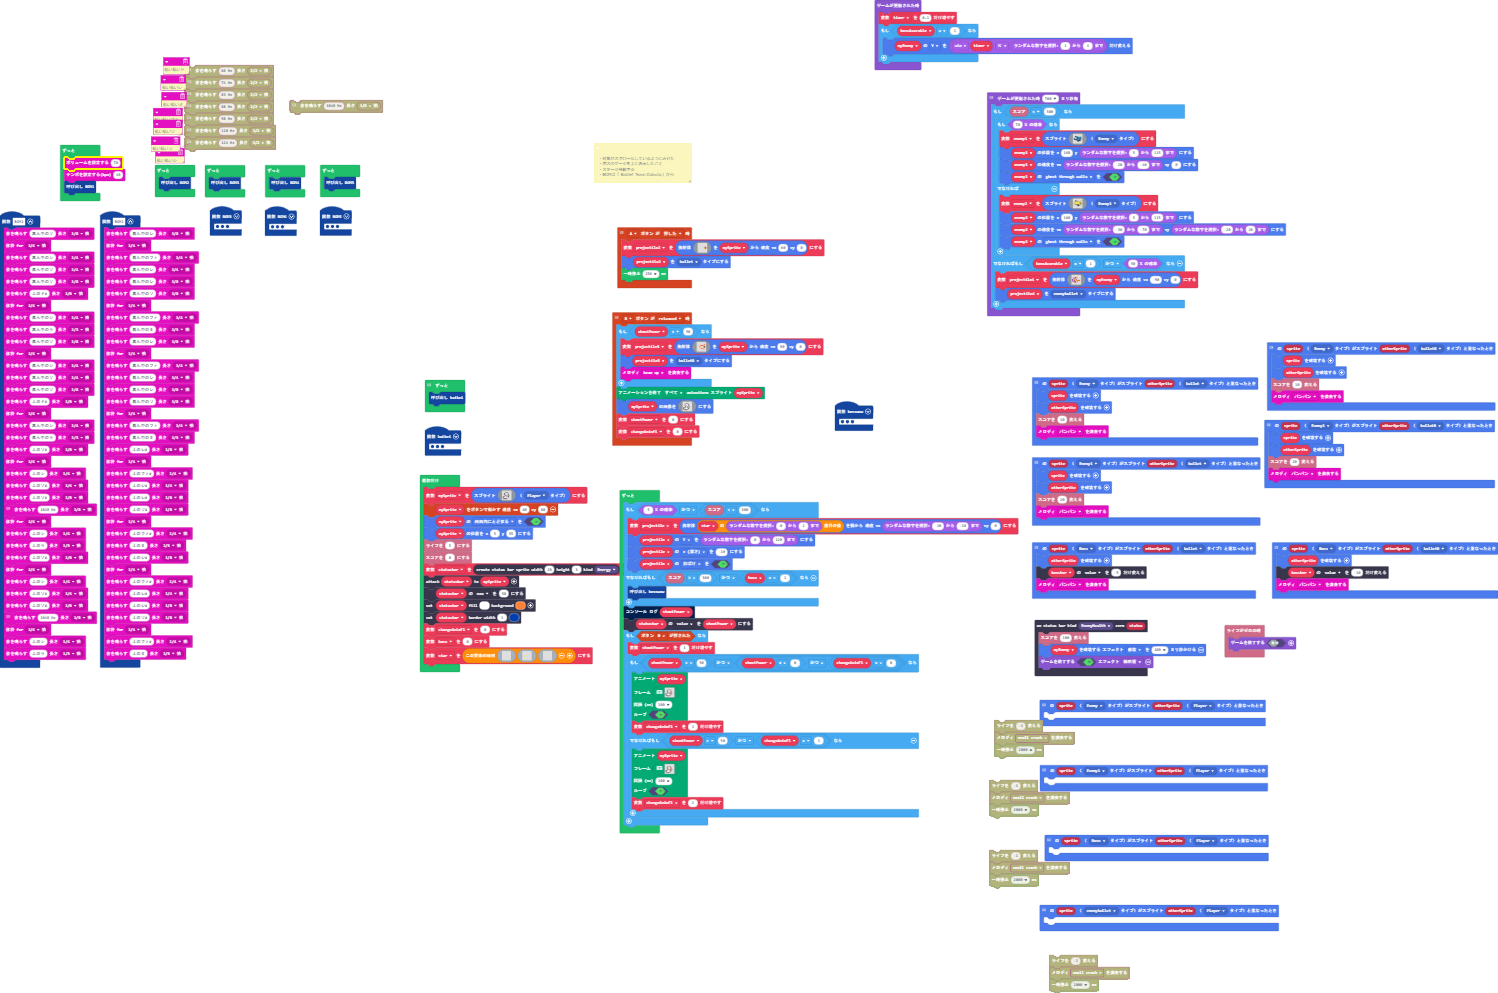
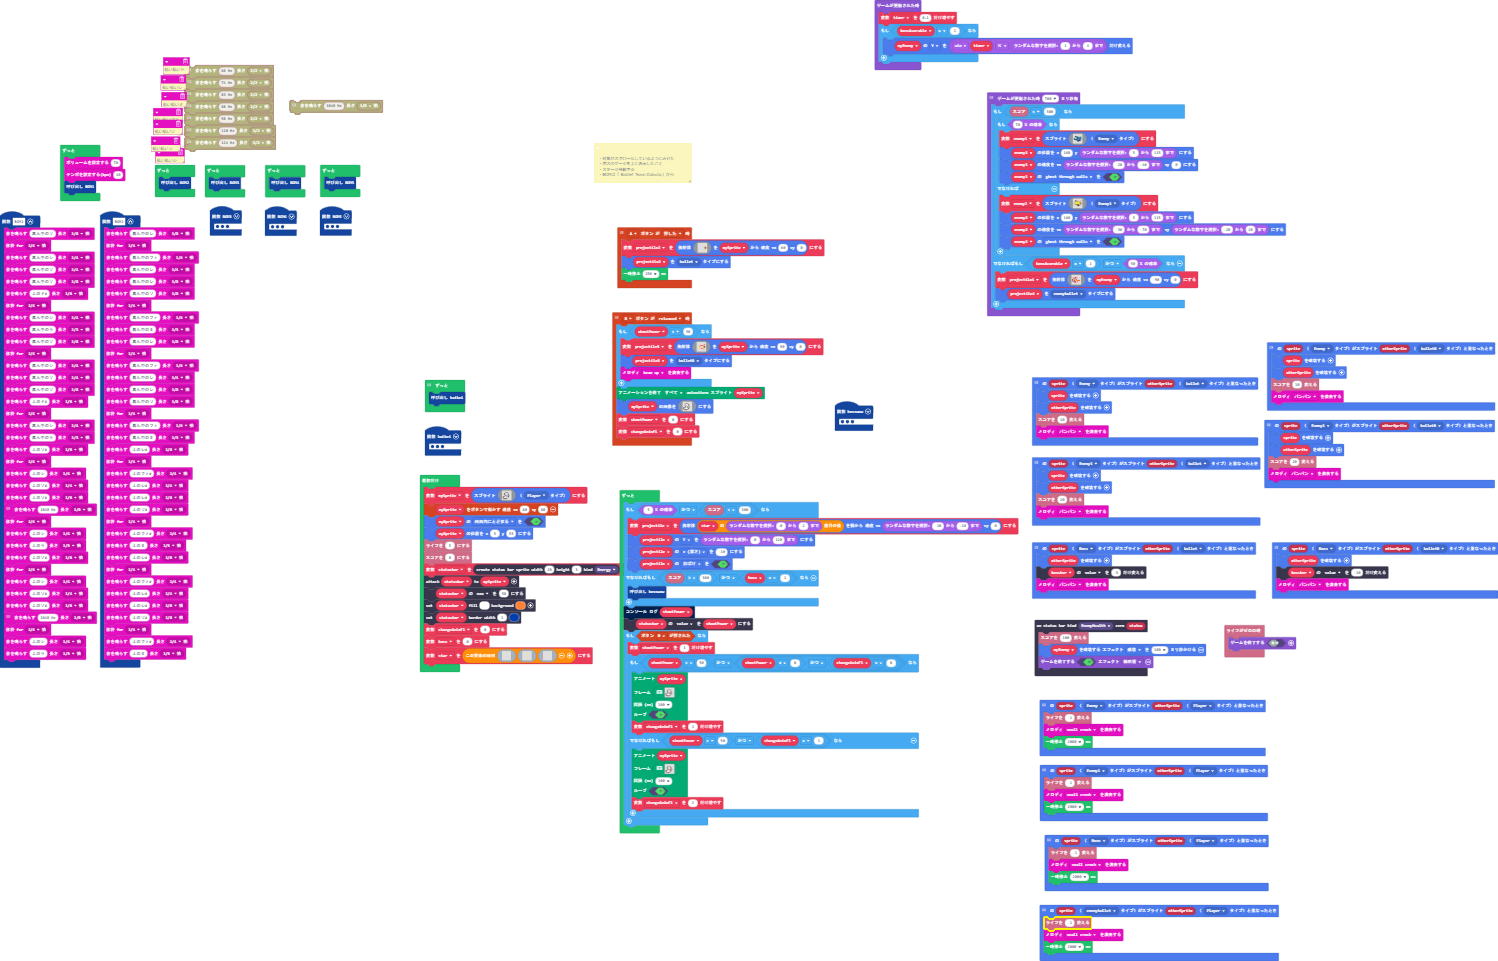
更新 main.blocks, main.ts

diff --git a/main.ts b/main.ts
@@ -17,7 +17,9 @@ namespace SpriteKind {
  */
 // 自身にダメージ！
 sprites.onOverlap(SpriteKind.Boss, SpriteKind.Player, function (sprite, otherSprite) {
-	
+    info.changeLifeBy(-1)
+    music.smallCrash.play()
+    pause(2000)
 })
 function haikei () {
     if (info.score() < 300) {
@@ -1653,7 +1655,9 @@ function BGM5 () {
 }
 // 自身にダメージ！
 sprites.onOverlap(SpriteKind.Enemy1, SpriteKind.Player, function (sprite, otherSprite) {
-	
+    info.changeLifeBy(-1)
+    music.smallCrash.play()
+    pause(2000)
 })
 function BGM3 () {
     music.rest(music.beat(BeatFraction.Quarter))
@@ -1788,7 +1792,9 @@ sprites.onOverlap(SpriteKind.Enemy, SpriteKind.bulletB, function (sprite, otherS
 })
 // ダメージ　
 sprites.onOverlap(SpriteKind.Enemy, SpriteKind.Player, function (sprite, otherSprite) {
-	
+    info.changeLifeBy(-1)
+    music.smallCrash.play()
+    pause(2000)
 })
 // 黄色の敵を撃ったとき20点！！！！
 sprites.onOverlap(SpriteKind.Boss, SpriteKind.bullet, function (sprite, otherSprite) {
@@ -1913,7 +1919,9 @@ sprites.onOverlap(SpriteKind.Enemy1, SpriteKind.bulletB, function (sprite, other
 })
 // 自身にダメージ！
 sprites.onOverlap(SpriteKind.enemybullet, SpriteKind.Player, function (sprite, otherSprite) {
-	
+    info.changeLifeBy(-1)
+    music.smallCrash.play()
+    pause(2000)
 })
 // a small bullet
 controller.A.onEvent(ControllerButtonEvent.Pressed, function () {
